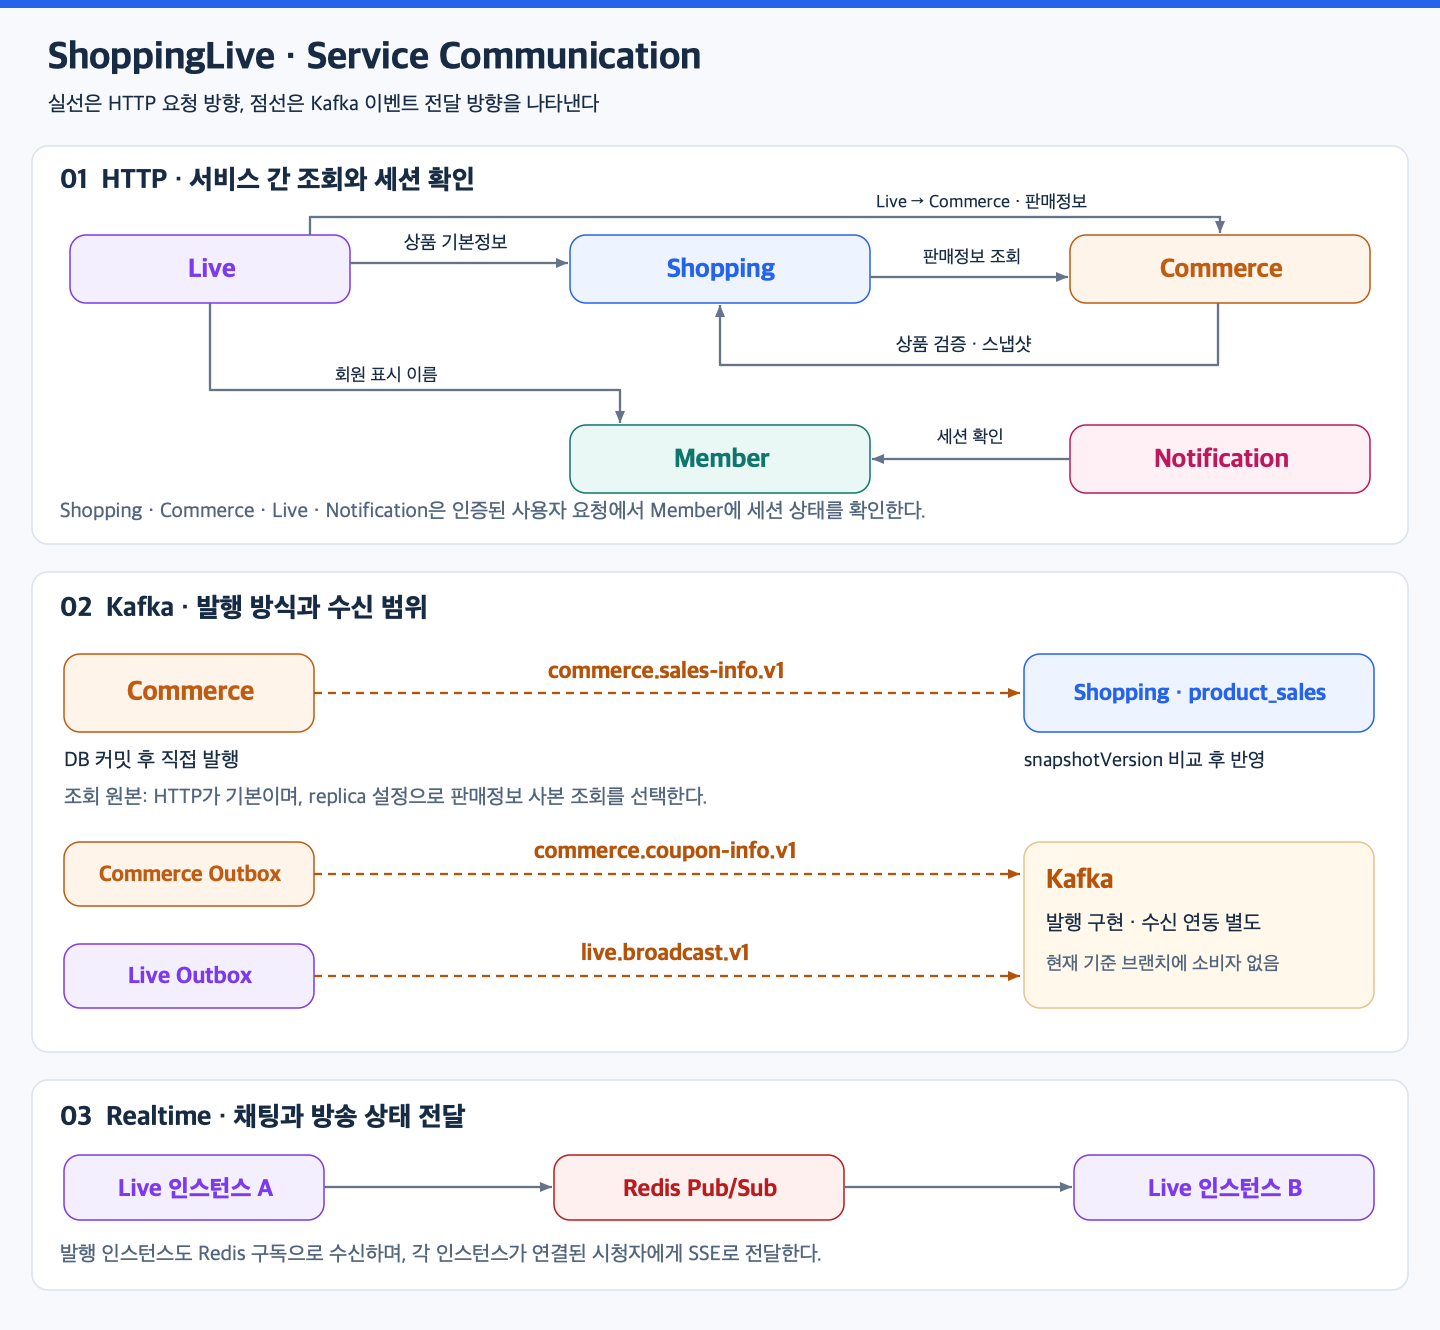
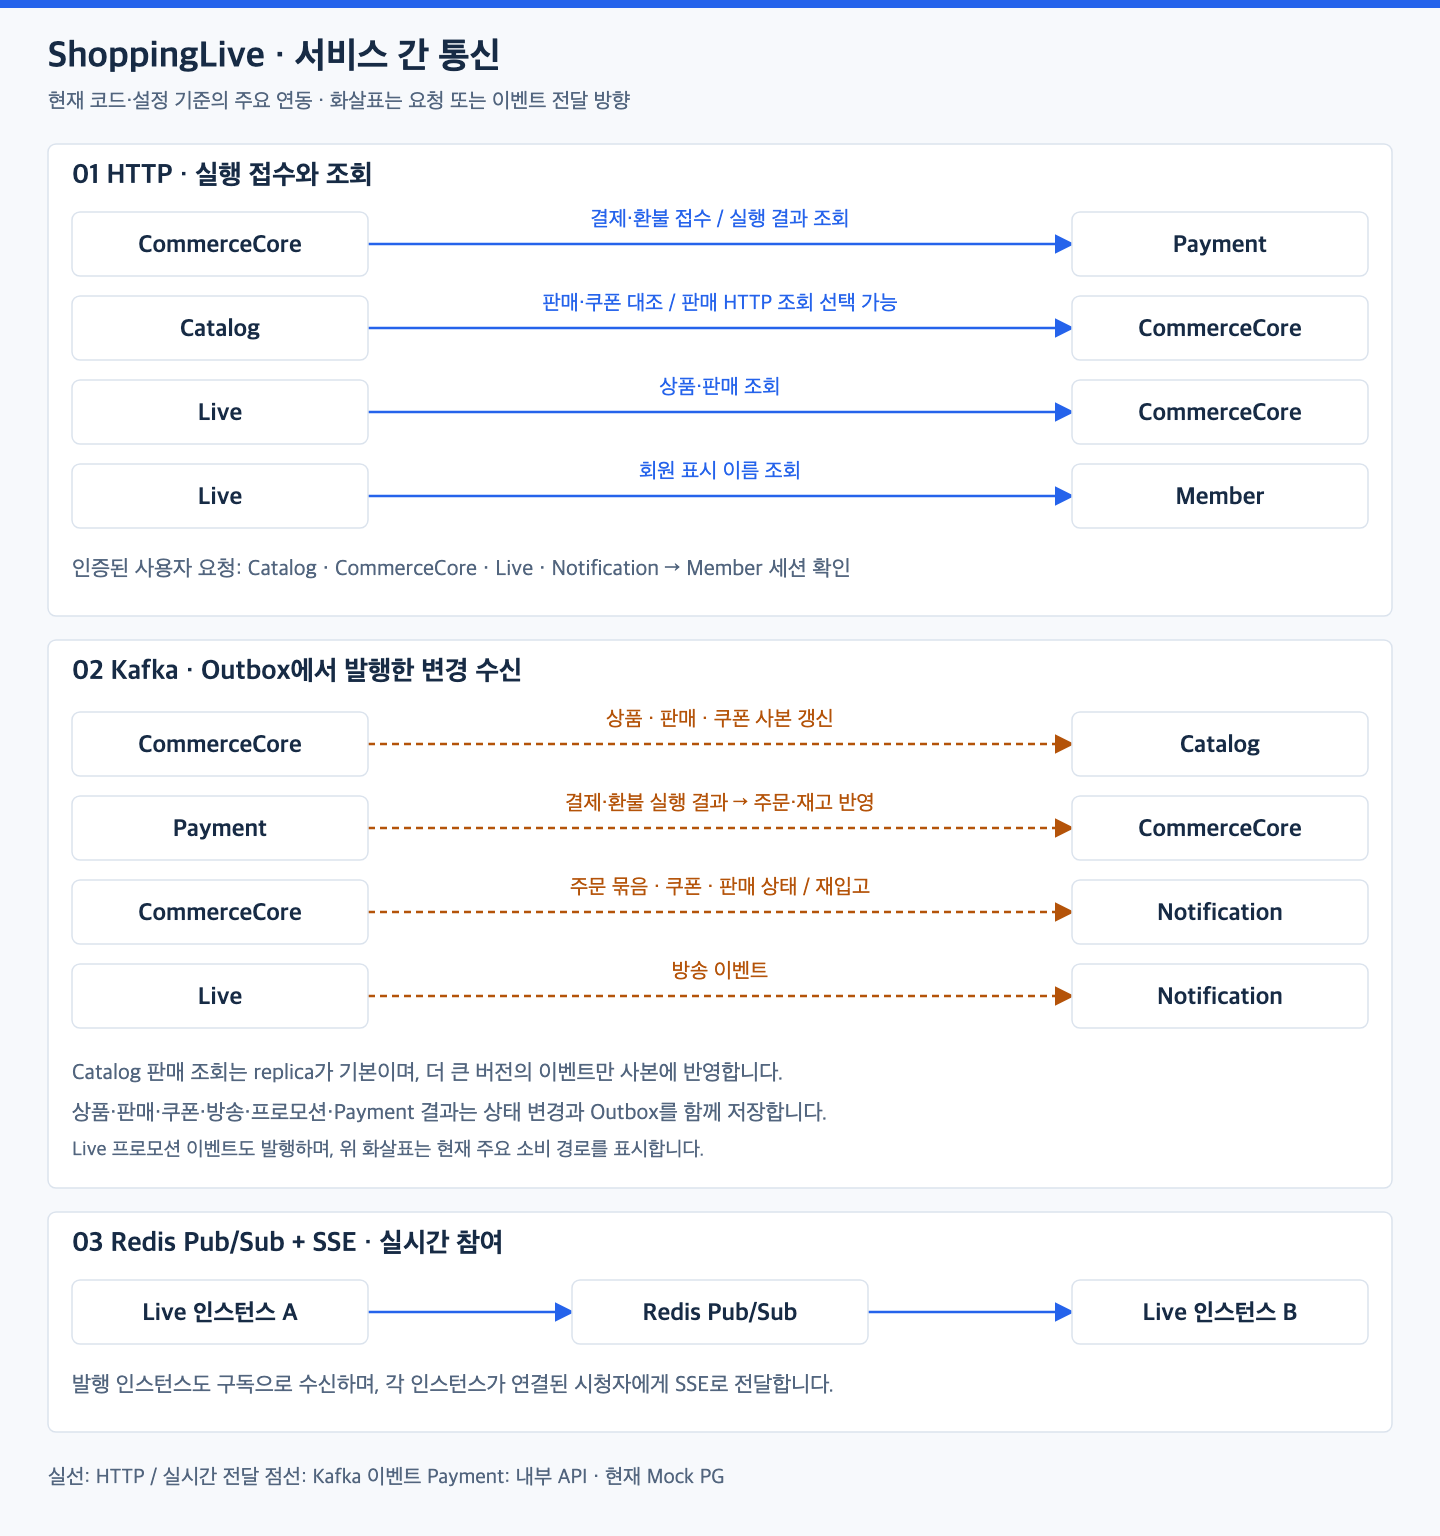
docs(common): 분리된 서비스 구조로 아키텍처 이미지 갱신 (#327)

diff --git a/README.md b/README.md
@@ -8,15 +8,19 @@
 
 ## 아키텍처
 
+![6개 서비스의 책임과 독립 데이터베이스](docs/assets/architecture/backend-architecture.png)
+
 각 서비스는 자신의 데이터를 소유하고 API와 이벤트로 협력합니다. 상품 원본·이미지·판매·재고·쿠폰·장바구니·주문과 환불 접수 정책은 CommerceCore가, 공개 상품·판매·쿠폰 사본은 Catalog가, 결제·환불 실행과 Mock PG·결과 복구는 Payment가 담당합니다. 공통 응답, 인증 검증, 요청 추적, JPA 감사와 Outbox 구현은 `common-module`에서 공유합니다.
 
 ## 서비스 간 통신
+
+![HTTP·Kafka·Redis Pub/Sub과 SSE 통신 흐름](docs/assets/architecture/service-communication.png)
 
 | 방식 | 주요 흐름 |
 |---|---|
 | HTTP | CommerceCore → Payment 내부 결제·환불 접수/조회, Catalog → CommerceCore 판매·쿠폰 대조, Live → CommerceCore 상품·판매 조회, Live → Member 회원 표시 이름 조회 |
 | 인증 확인 | Catalog·CommerceCore·Live·Notification → Member 세션 활성 상태 확인 |
-| Kafka | CommerceCore 상품·판매·쿠폰 → Catalog 사본. Payment 실행 결과 → CommerceCore 주문·재고 반영. 기존 주문 묶음·쿠폰·방송 → Notification |
+| Kafka | CommerceCore 상품·판매·쿠폰 → Catalog 사본. Payment 실행 결과 → CommerceCore 주문·재고 반영. 주문 묶음·쿠폰·판매 상태·방송 → Notification |
 | Redis Pub/Sub + SSE | Live 인스턴스 사이에서 채팅·방송 상태를 중계하고 시청자 연결에 실시간 전달 |
 
 판매정보 조회는 이벤트로 채운 사본(`replica`)이 기본이며 `catalog.sales.source=http`(`CATALOG_SALES_SOURCE=http`)로 CommerceCore 직접 조회로 되돌릴 수 있습니다. 상품·판매·쿠폰·방송·프로모션 및 Payment 결과 이벤트는 상태 변경과 Outbox 기록을 같은 트랜잭션으로 묶습니다.
